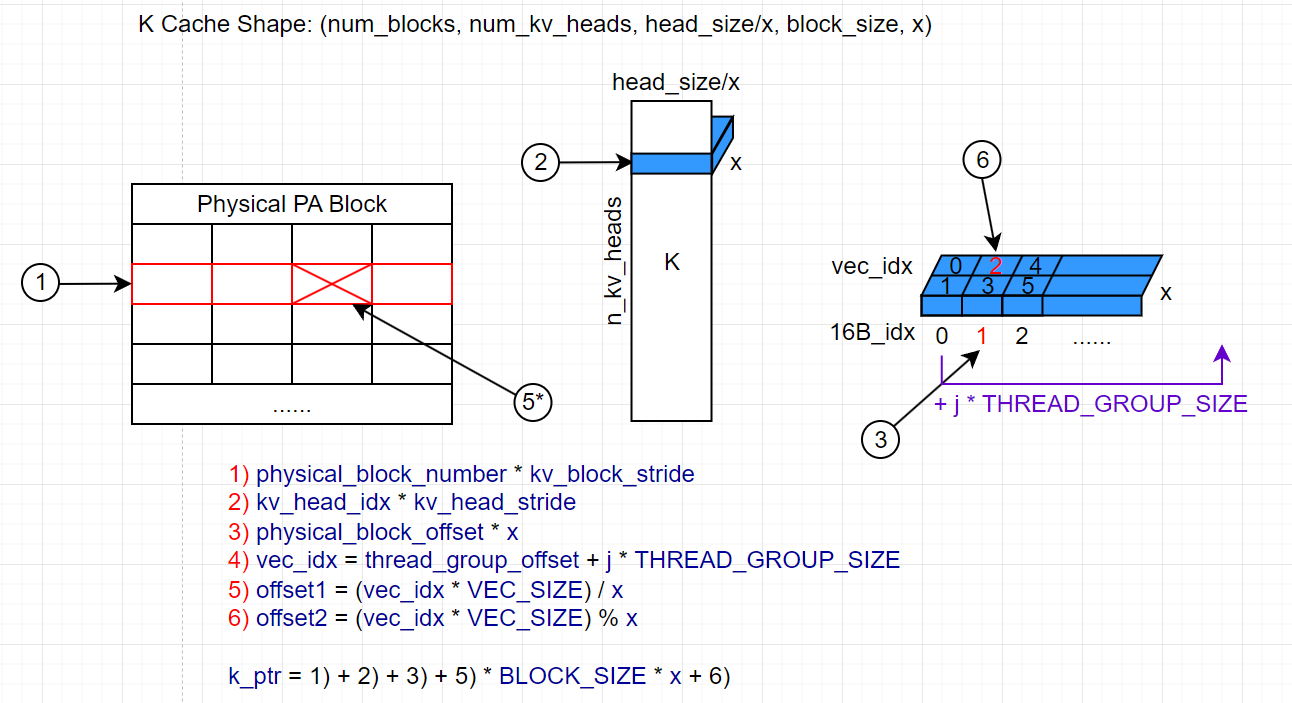
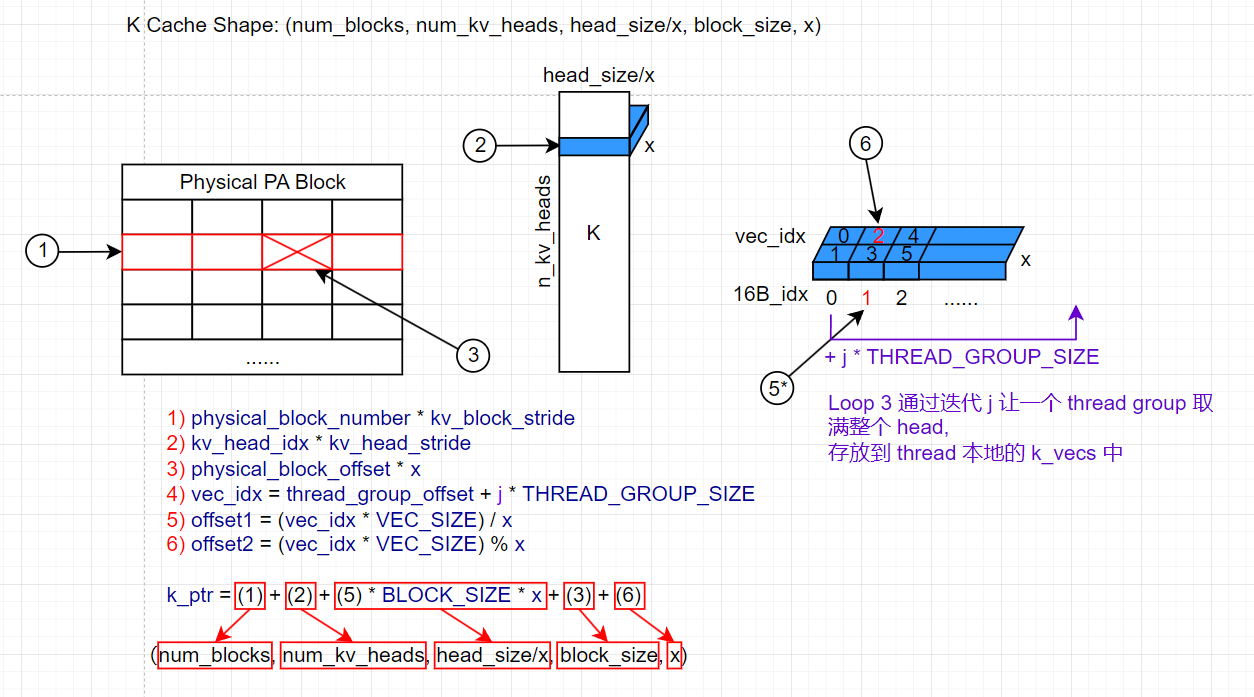
Update dive-into-paged-attention

diff --git a/content/blogs/dive-into-paged-attention/index.md b/content/blogs/dive-into-paged-attention/index.md
@@ -1,7 +1,7 @@
 ---
 title: "Dive into Paged Attention"
 date: 2024-10-07T12:00:00+08:00
-lastmod: 2024-11-01T13:00:00+08:00
+lastmod: 2024-11-04T12:12:00+08:00
 draft: false
 author: ["jamesnulliu"]
 keywords: 
@@ -428,7 +428,7 @@ const int num_blocks = end_block_idx - start_block_idx;
 ```
 用文字描述就是:
 
-- `blk_idx` 表示当前 thread 所在 warp 需要处理的 PA block 的索引.
+- `blk_idx` 表示当前 thread 所在 warp 需要处理的 PA block 的在 `block_table` 中索引 (逻辑上的索引).
 - `start_block_idx` 和 `end_block_idx` 表示当前 cuda block 需要处理的 block 范围.
 - `num_blocks` 表示当前 cuda block 需要处理的 block 数量.
 - `NUM_WARPS` 表示当前 cuda block 中 warp 的数量. 一个 warp 包含 32 个 thread.
@@ -442,7 +442,12 @@ const int num_blocks = end_block_idx - start_block_idx;
 
 所以说这个循环和上面读取 Q 的循环一个尿性🤮, 不过是以 warp 的粒度处理数据;  
 
-进入了第一个循环内部, 第一步当然是计算当前 thread 对应的 warp 应该计算哪个 PA block, 因此得到了 `physical_block_number`.
+进入了第一个循环内部, 第一步当然是计算当前 thread 对应的 warp 应该计算哪个 PA block (物理上的索引), 因此得到了 `physical_block_number`.
+
+```cpp
+const int64_t physical_block_number =
+    static_cast<int64_t>(block_table[block_idx]);
+```
 
 ---
 
@@ -466,7 +471,9 @@ for (int block_idx = start_block_idx + warp_idx; block_idx < end_block_idx;
 }
 ```
 
-从 kernel 角度看, 每个 thread 需要辅助当前 warp 计算自己负责的一整个 PA block (包含 `BLOCK_SIZE` 个 token), 而我们把这个过程拆分为 Loop 2 中的 `NUM_TOKEN_PER_THREAD_GROUP` (也就是 `ceil(BLOCK_SIZE / 32)`) 次循环; 说人话就是如果 BLOCK SIZE 太大了后面每个 thread 向后偏移 `i * WARP_SIZE` 个 token 继续狠狠算🤣.
+从 kernel 角度看, 每个 thread 需要辅助当前 warp 计算自己负责的一整个 PA block (包含 `BLOCK_SIZE` 个 token), 而我们把这个过程拆分为 Loop 2 中的 `NUM_TOKEN_PER_THREAD_GROUP` (也就是 `ceil(BLOCK_SIZE / 32)`) 次循环; 
+
+说人话就是**一个 thread group 对应一个 token 中的一个 head**, 如果 BLOCK SIZE 太大了后面每个 thread 向后偏移 `i * WARP_SIZE` 个 token 继续狠狠算🤣.
 
 也因此第二个循环内部一上来先计算了几个偏移量, 并且申请了 thread 内部私有的 `k_vecs` 数组:
 
@@ -476,15 +483,16 @@ const int token_idx = block_idx * BLOCK_SIZE + physical_block_offset;
 K_vec k_vecs[NUM_VECS_PER_THREAD];
 ```
 
-- 一个 thread group 在一次循环中负责 fetch 一个 PA block 中 K cache 的一个 token 中**自己负责的 head**.
-- 一个 thread group 负责计算一个 qk 值; 这个值显然是由一个 Q head 和一个 K head 点积得到的.
-- `physical_block_offset` 表示当前要算的 token 在当前 PA block 中的偏移量.
+- `thread_group_idx` 表示当前 thread group 在整个 cuda block 中的索引.
+- ☢ 一个 thread group 在一次循环中负责 fetch 一个 PA block 中 K cache 的一个 token 中**自己负责的 head**.
+- ☢ 一个 thread group 负责计算一个 qk 值; 这个值显然是由一个 Q head 和一个 K head 点积得到的.
+- `physical_block_offset` 表示当前要算的 token 在当前 PA block 中的偏移量 (注意和前面的 `physical_block_number` 区分).
 - 加 `i * WARP_SIZE` 的原因是如果 `BLOCK_SIZE` 大于 32, 那么一个 warp 要多次循环才能处理完一个 PA block 中的所有 token, 对应 `thread_group_idx` 需要做偏移.
 - `token_idx` 表示当前要算的 token 在整个 seq 的 KV cache 中的索引.
 - `k_vecs` 中能存放 `NUM_VECS_PER_THREAD` 个 VEC, 而一整个 thread group 中所有的 thread 的 `k_vecs` 合起来才能组成一个 K 的 head (推导参考上面 Q 的 😇). 这就是为什么后面算 QK 的时候要 reduce.
 
-> 看到这里读者可能有一个问题: 一个 token 的 K cache 应该对应多个 head, 为什么上面说一个 thread group 只负责一个 head?  
-> 答: 因为实际计算的时候, 一个 cuda block 只负责计算一个 head, 对应到 K Cache 乃至后面 V Cache 的位置也是一样的.
+🤔 **看到这里读者可能有一个问题: 一个 token 的 K cache 应该对应多个 head, 为什么上面说一个 thread group 只负责一个 head?**  
+答: 因为实际计算的时候, 一个 cuda block 只负责计算一个 head, 对应到 K Cache 乃至后面 V Cache 的位置也是一样的.
 
 ---
 
@@ -536,9 +544,12 @@ for (int block_idx = start_block_idx + warp_idx; block_idx < end_block_idx;
 - 在 MHSA 中, `num_kv_heads` 等于 `num_heads`; 而在 GQA, MQA 中, `num_kv_heads` 小于 `num_heads`.
 - (1) 负责找到当前 thread 属于的 warp 要处理哪个 PA block.
 - (2) 负责找到当前 thread 要计算的 head 在 K cache 中的位置. 这个 head 的索引和 Q 中 head 的索引在 MHSA 中相同.
-- (3) 负责找到当前 thread group 在需要读取的 head (蓝色长方体) 中的偏移; 如果一个 head 需要一个 thread group 读多次, 利用 `j` 进行循环, 参考 Q 的 load.
-- (5) 负责找到当前 thread 要计算的 token 在当前 PA block 中的位置.
+- (3) 负责找到当前 thread group 要计算的 token 在当前 PA block 中的位置.
+- (5) 负责找到当前 thread 在需要读取的 head (蓝色长方体) 中的偏移, 通过 `j` 进行迭代读取.
 - (6) 负责找到当前 thread 在 thread gruop 中读取的 x 中的偏移, thread 一次读取一个 VEC.
+
+🤔 **为什么 (5) 在实际寻址时需要 `* BLOCK_SIZE * x` ?**  
+答: 这是根据 `k_cache` 的 layout 得到的 stride. 同理 (3) `* x` 也是 stride.
 
 第 3 个循环结束时当前 warp 负责的每个 token 中需要的 K cache head 已经全被加载入 thread 本地的 `k_vecs` 中了. 
 
